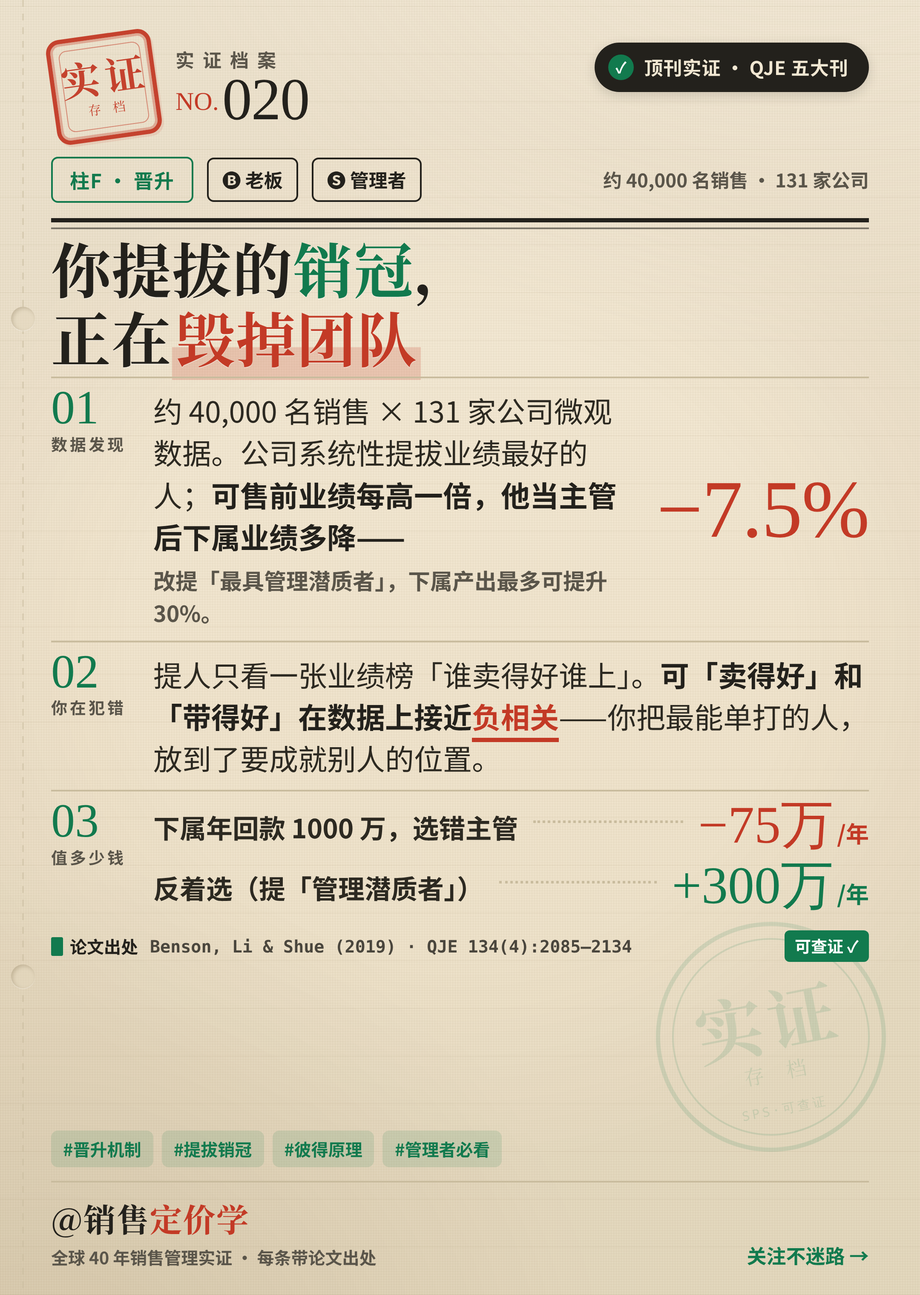
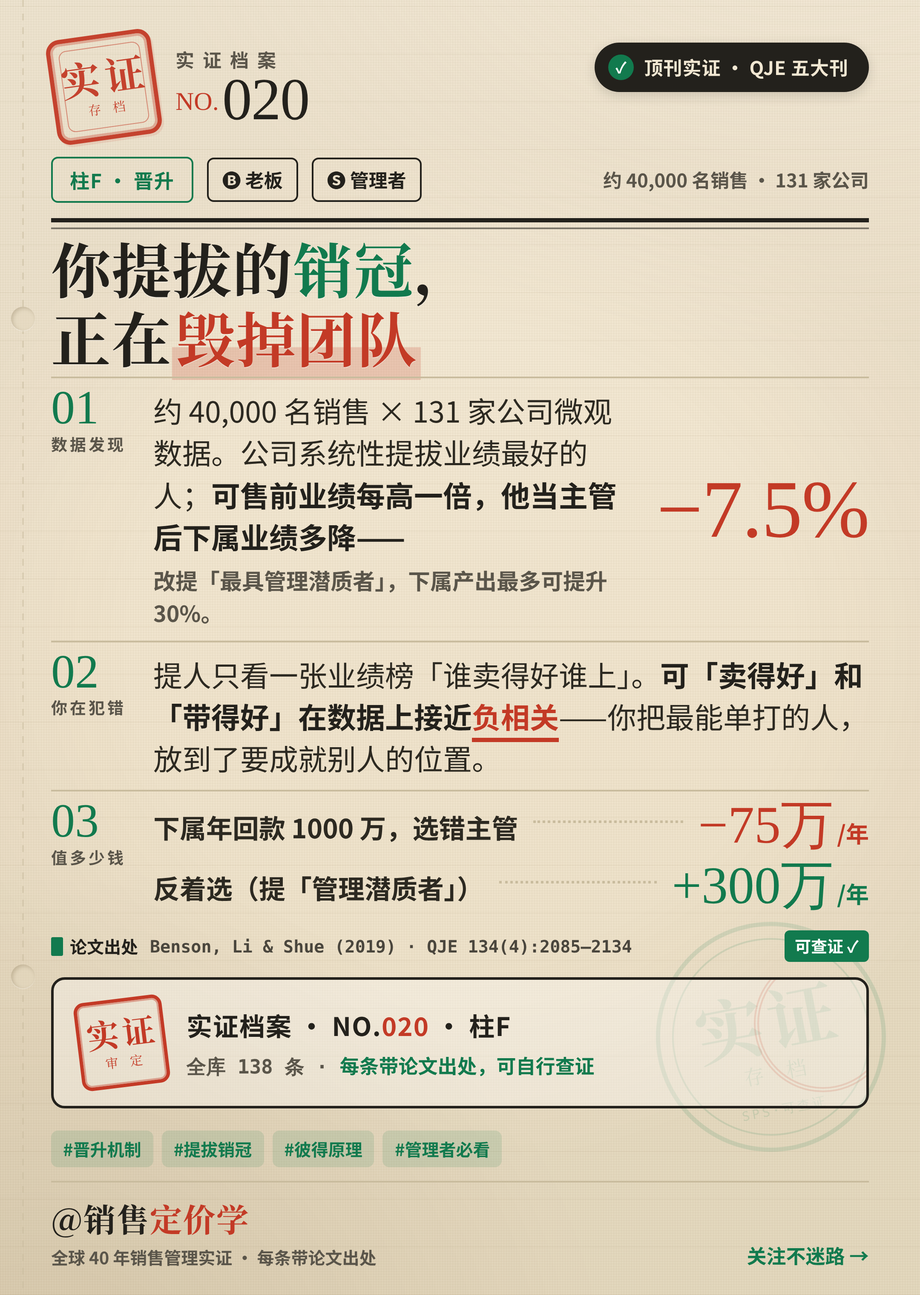
纯净版加「存档条」差异化图案填补去钩后空位（实证审定章+全库138条可查证）
Claude-Session: https://claude.ai/code/session_018hCGuGVAJYAfYJUg5xujxr

Changed region(s): [[0.031, 0.75, 0.6514, 0.875], [0.7134, 0.75, 0.9616, 0.875]]

diff --git a/theory-cards/generate/render.js b/theory-cards/generate/render.js
@@ -182,6 +182,22 @@ html,body{background:#333;}
 .foot-brand .name span{color:var(--seal);}
 .foot-brand .tl{font-size:20px;color:var(--ink2);font-weight:600;margin-top:4px;}
 .foot-brand .follow{font-size:23px;font-weight:800;color:var(--acc);white-space:nowrap;}
+
+/* 纯净版专用「存档条」——填补去掉钩子后的空位，档案骑缝章风格 */
+.filebar{margin-top:18px;border:3px solid var(--ink);border-radius:16px;padding:22px 28px;
+  display:flex;align-items:center;gap:24px;background:rgba(255,255,255,.34);position:relative;overflow:hidden;}
+.filebar::after{content:'';position:absolute;right:-30px;top:-30px;width:150px;height:150px;border-radius:50%;
+  border:6px double var(--seal);opacity:.14;}
+.filebar .chop{flex:none;width:104px;height:104px;border:4px solid var(--seal);border-radius:12px;color:var(--seal);
+  display:flex;flex-direction:column;align-items:center;justify-content:center;transform:rotate(-7deg);
+  font-family:'Noto Serif CJK SC',serif;box-shadow:inset 0 0 0 2px rgba(195,58,38,.4);}
+.filebar .chop b{font-size:38px;font-weight:700;letter-spacing:4px;line-height:1;margin-left:4px;}
+.filebar .chop span{font-size:15px;letter-spacing:5px;margin-top:6px;margin-left:5px;}
+.filebar .meta{flex:1;}
+.filebar .meta .m1{font-size:30px;font-weight:900;color:var(--ink);letter-spacing:1px;}
+.filebar .meta .m1 em{font-style:normal;color:var(--seal);}
+.filebar .meta .m2{font-size:23px;color:var(--ink2);font-weight:700;margin-top:8px;font-family:'SpaceMono',monospace;}
+.filebar .meta .m2 b{color:var(--gain);font-family:'Noto Sans CJK SC';}
 `;
 }
 
@@ -235,7 +251,13 @@ function cardHtml(c) {
 
     <div class="src"><span class="slabel"><span class="dot"></span>论文出处</span><span class="cite">${c.src}</span><span class="verify">可查证 ✓</span></div>
 
-    ${CLEAN ? '' : `<div class="cta">
+    ${CLEAN ? `<div class="filebar">
+      <div class="chop"><b>实证</b><span>审 定</span></div>
+      <div class="meta">
+        <div class="m1">实证档案 · NO.<em>${c.no}</em> · 柱${c.pillar}</div>
+        <div class="m2">全库 138 条 · <b>每条带论文出处，可自行查证</b></div>
+      </div>
+    </div>` : `<div class="cta">
       <div class="lft"><div class="big">关注<br>＋评论</div><div class="key">要</div></div>
       <div class="bar"></div>
       <div class="rgt"><div class="t1">免费领 <b>《精选 10 条 · 可落地版》</b></div>
